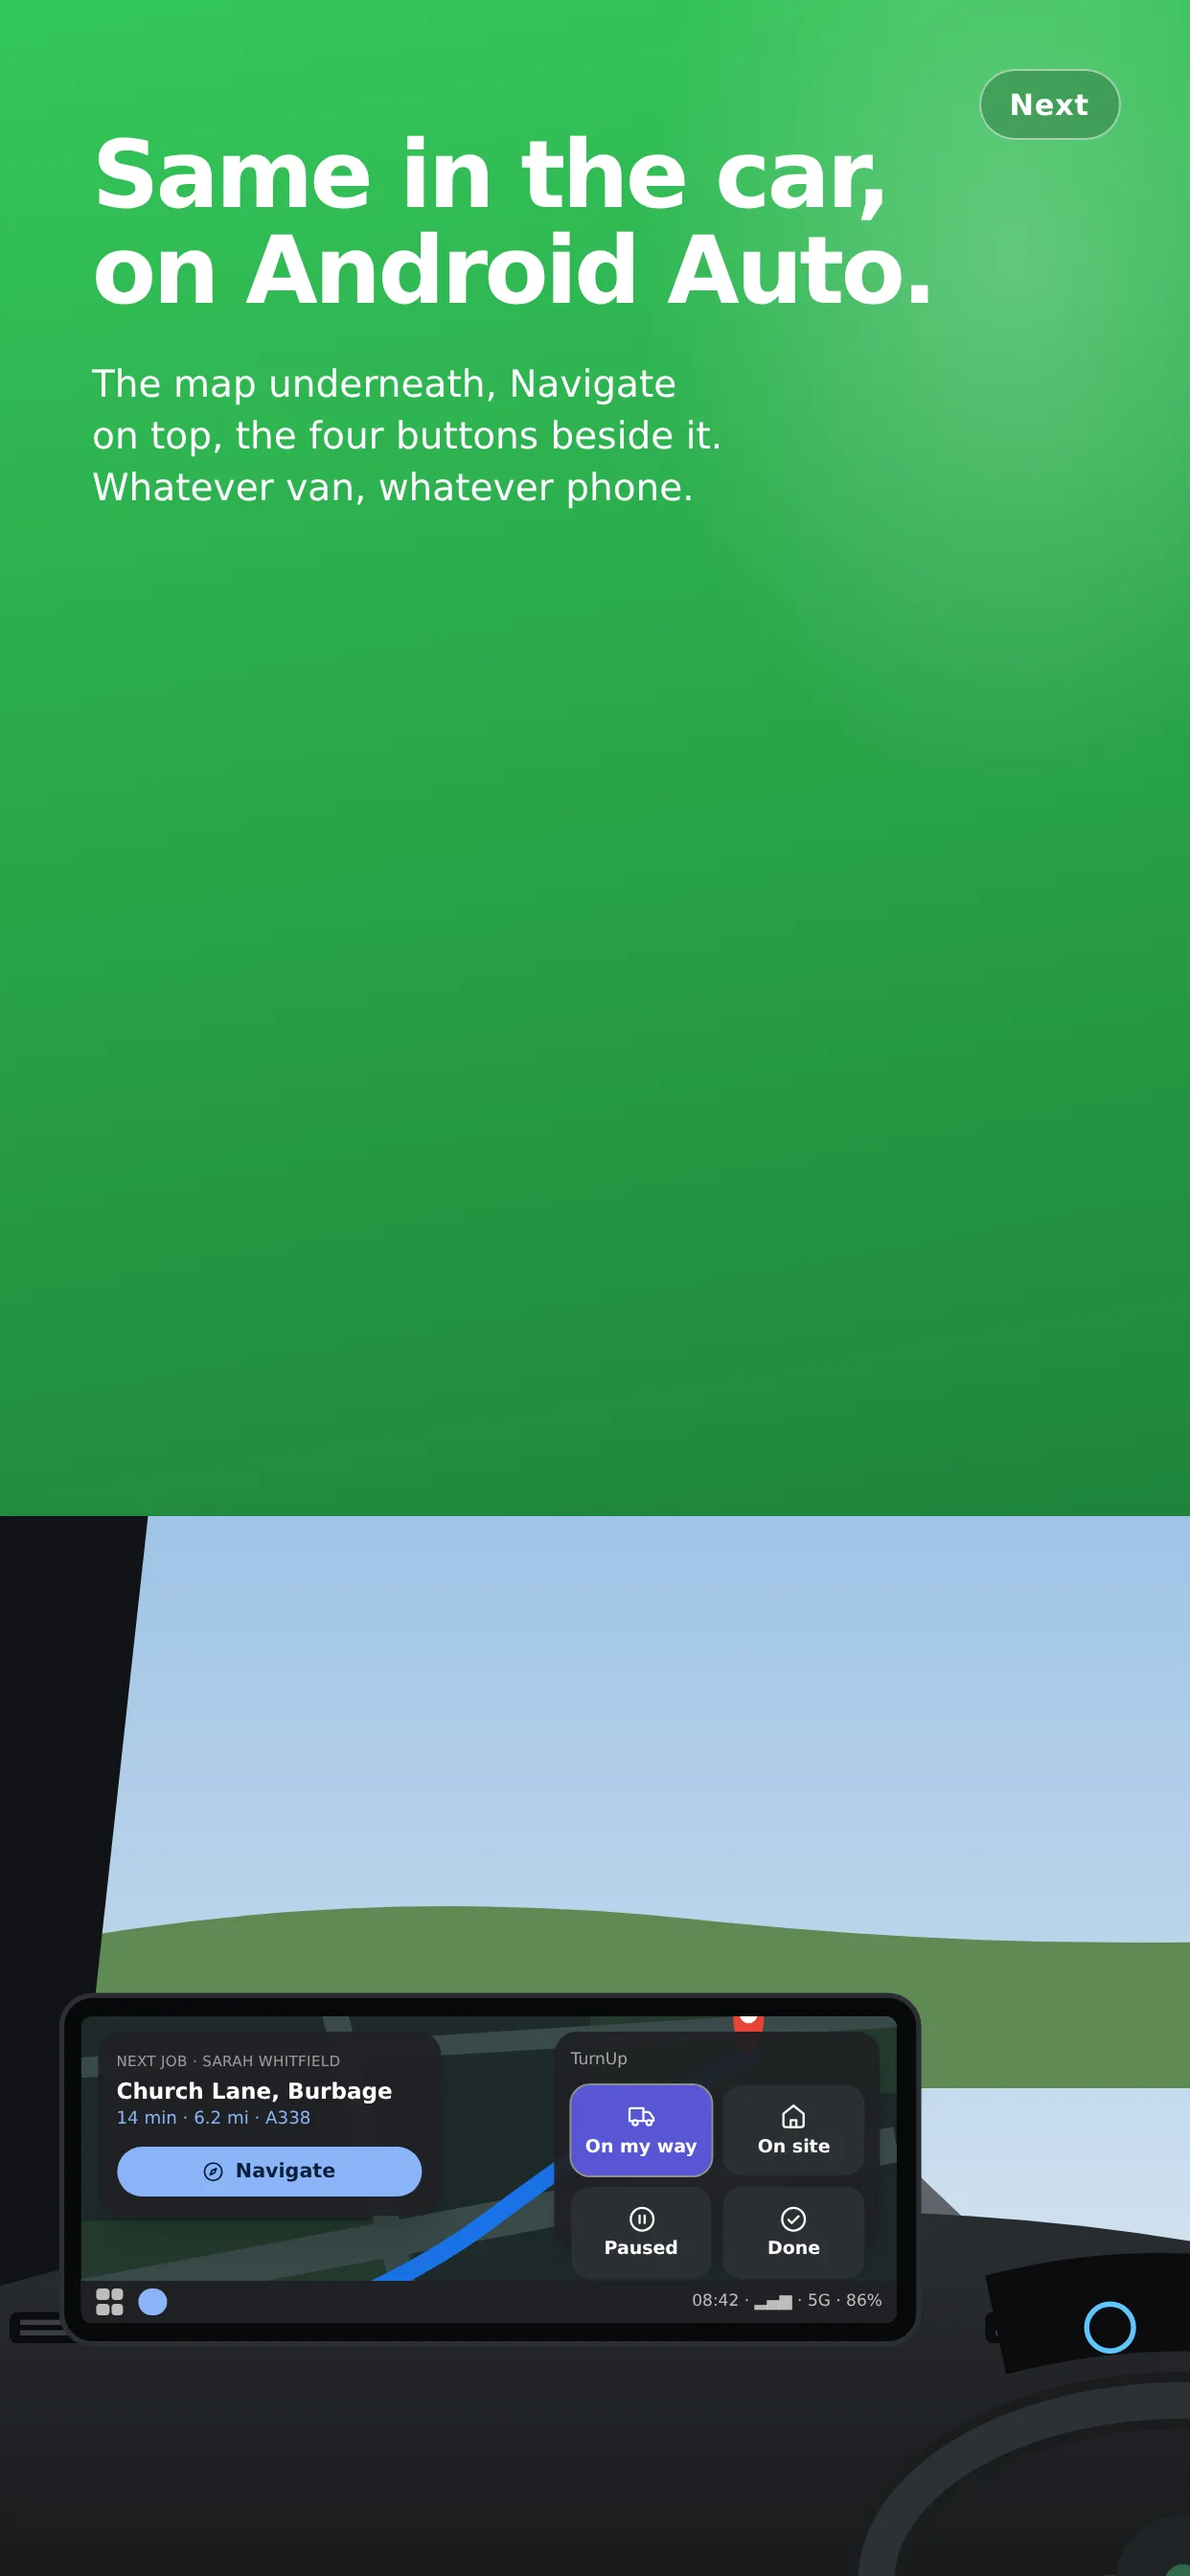
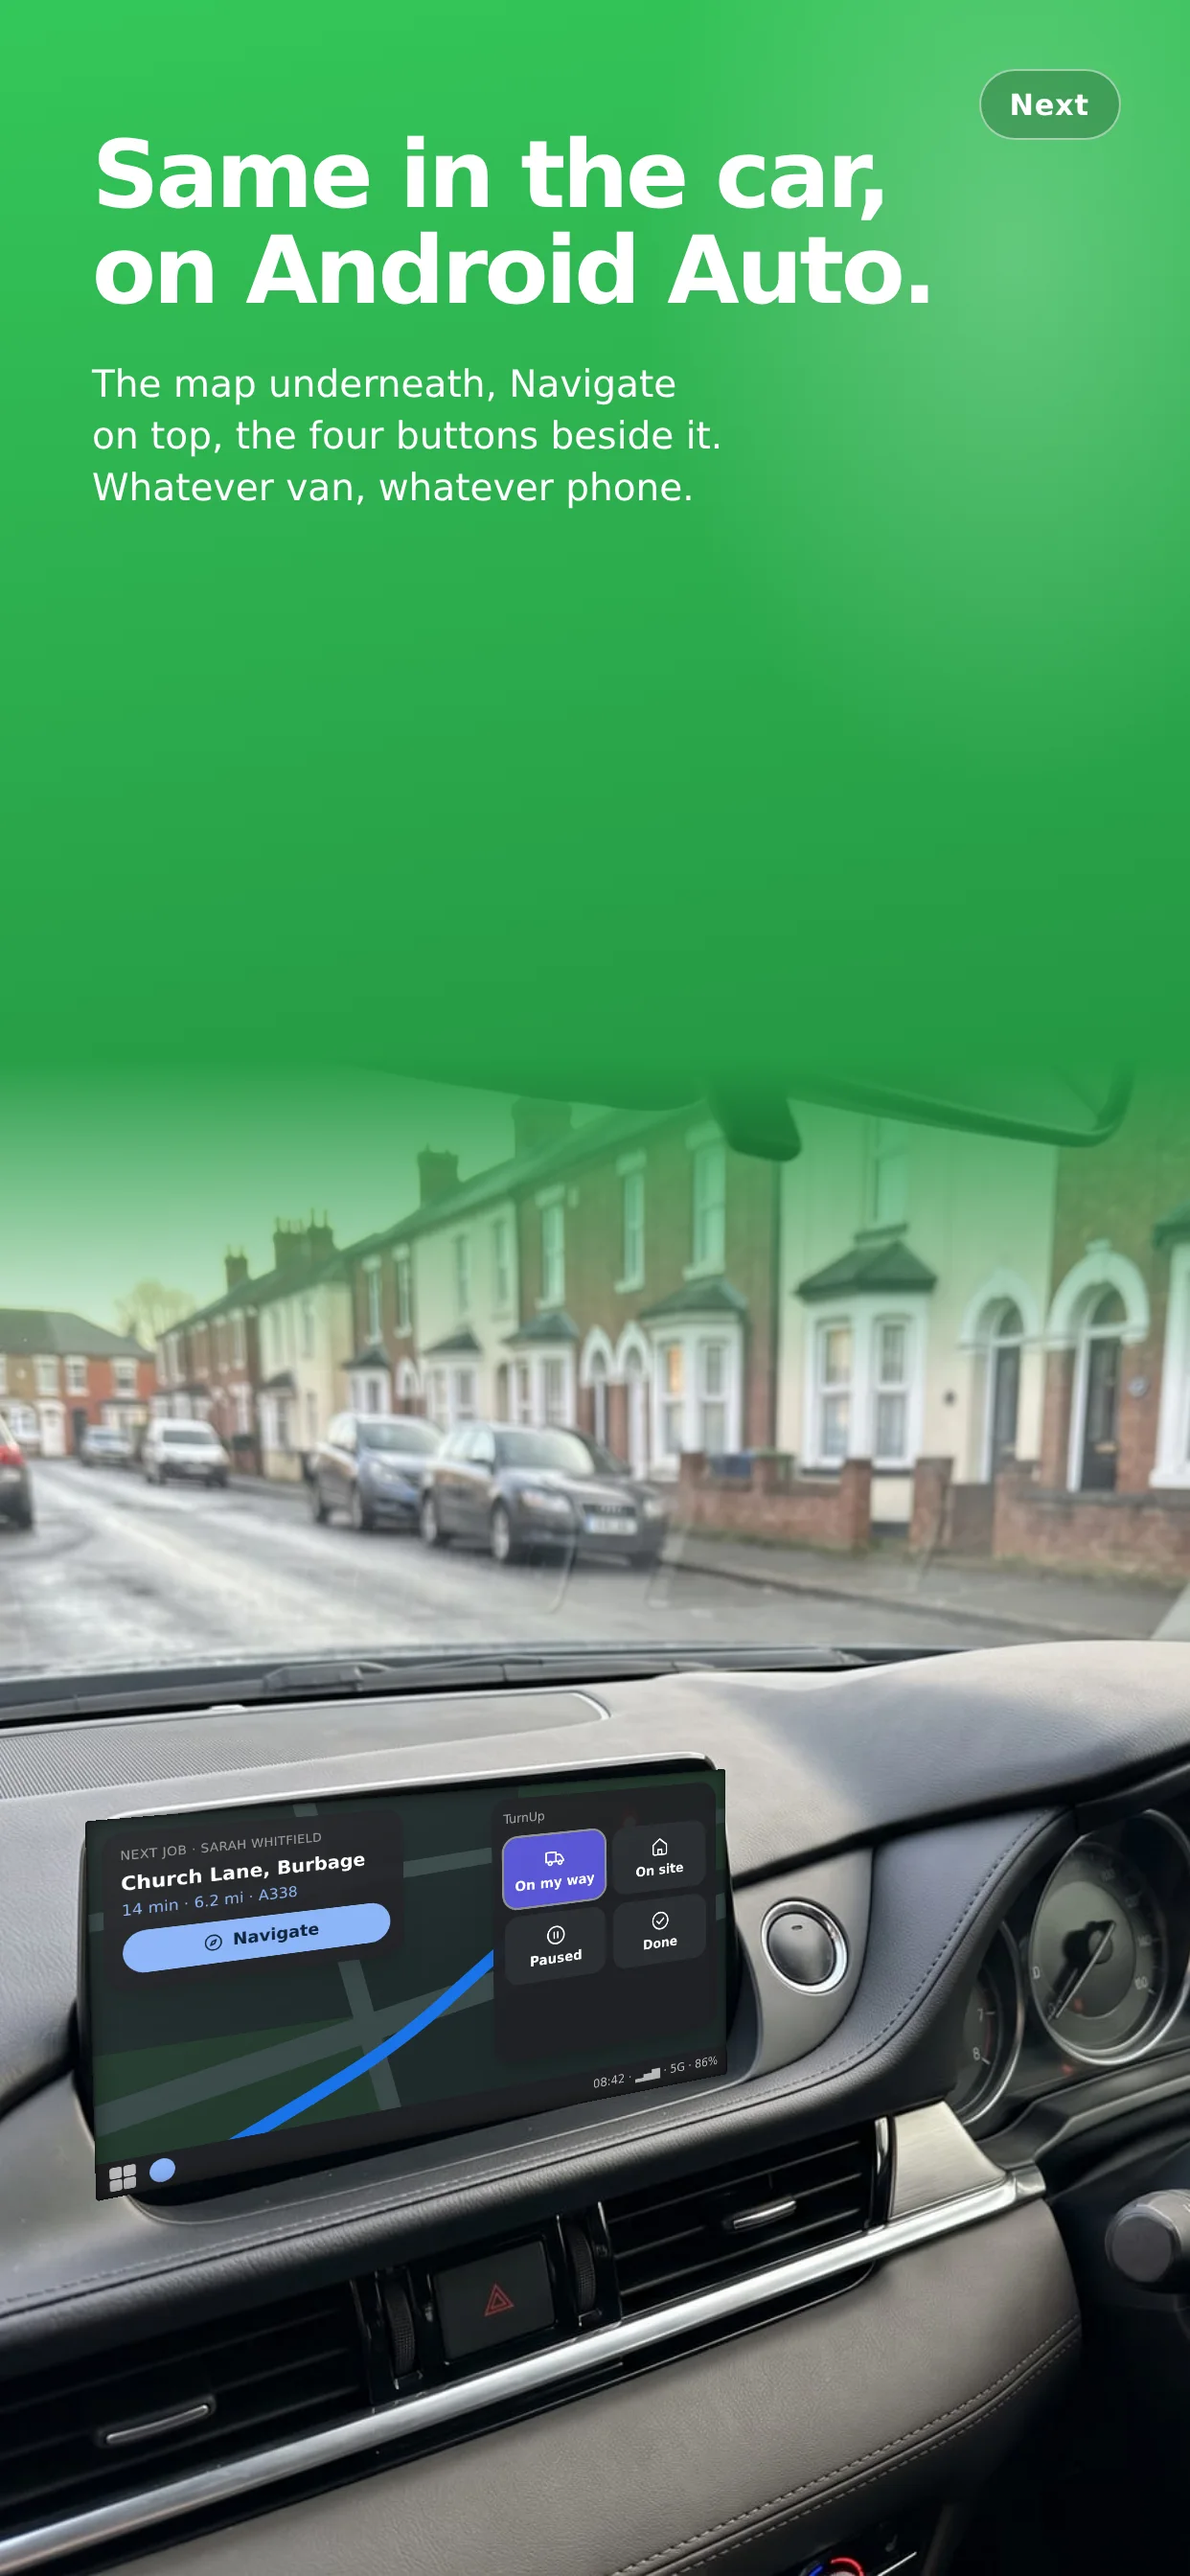
v1.15.3: the cab frames are photographs, with the app on the real screen
Will: "these images need to look real life view as if the person is
looking at their actual CarPlay." The n-carplay and n-androidauto
frames showed a drawn SVG cab. They now show a photograph taken from
the driver's seat (right-hand drive: a van on a country lane, an estate
car on a town street), with the existing CarPlay / Android Auto HTML UI
composited onto the photographed screen.

- CarDisplay.jsx: homography() solves the 8-unknown projective
  transform rectangle -> quad and returns a CSS matrix3d; CABS holds
  each photo's screen corners as fractions of the photo; CabPhoto
  renders the UI flat at a natural size and presses it onto the glass,
  with a faint reflection, inner shadow and rounded corners so it reads
  as a lit panel. Text stays HTML, so it stays crisp. The drawn
  CarDisplay is kept.
- Posters.jsx: car frames use CabPhoto, wider than the canvas so the
  screen is readable, shifted so the binnacle and wheel rim show on the
  right; the top of the photo is masked so it rises out of the poster's
  colour rather than meeting it on a line.
- public/home/cab-van.jpg, cab-car.jpg (1600 px, ~200 KB each) and the
  two re-rendered frames.
- posters.js: alt text describes the photographs.
- version 1.15.3 with a changelog entry.

Claude-Session: https://claude.ai/code/session_01KF9r2LXPvcJ1ugbhNoFDpJ

diff --git a/src/components/CarDisplay.jsx b/src/components/CarDisplay.jsx
@@ -51,11 +51,11 @@ function CarPlayUI({ w }) {
       </aside>
       <main className="flex min-w-0 flex-1 gap-[0.6em] p-[0.6em] pl-0">
         {/* navigation card */}
-        <section className="relative w-[46%] overflow-hidden rounded-[0.9em]">
+        <section className="relative w-[49%] overflow-hidden rounded-[0.9em]">
           <MapArt />
           <div className="absolute inset-x-[0.6em] top-[0.6em] rounded-[0.6em] bg-black/75 px-[0.8em] py-[0.6em] backdrop-blur">
             <p className="text-[0.62em] uppercase tracking-wide text-white/60">Next job</p>
-            <p className="truncate text-[0.95em] font-semibold">{JOB.where}</p>
+            <p className="truncate text-[0.9em] font-semibold">{JOB.where}</p>
             <p className="text-[0.75em] text-white/70">{JOB.mins} min · 6.2 mi</p>
           </div>
           <div className="absolute inset-x-[0.6em] bottom-[0.6em] flex items-center justify-center gap-[0.5em] rounded-[0.6em] bg-[#007aff] py-[0.6em] text-[0.9em] font-bold">
@@ -112,10 +112,89 @@ function AndroidAutoUI({ w }) {
   )
 }
 
+/* ------------------------------------------------------------------------ */
+/* The photographed cab.                                                     */
+
 /**
- * The cab. Right-hand drive: wheel on the right, head unit centre-left of
- * the driver, the road ahead through the glass. The screen is an HTML box
- * positioned over the SVG so the UI stays crisp text, not a picture of text.
+ * Solve the projective transform that takes the rectangle (0,0)–(w,h) onto
+ * the quadrilateral [tl, tr, br, bl] and return it as a CSS matrix3d().
+ * Eight unknowns, eight equations, Gaussian elimination. The element it is
+ * applied to needs `transform-origin: 0 0`.
+ */
+export function homography(w, h, [tl, tr, br, bl]) {
+  const src = [[0, 0], [w, 0], [w, h], [0, h]], dst = [tl, tr, br, bl]
+  const A = [], B = []
+  for (let i = 0; i < 4; i++) {
+    const [x, y] = src[i], [u, v] = dst[i]
+    A.push([x, y, 1, 0, 0, 0, -x * u, -y * u]); B.push(u)
+    A.push([0, 0, 0, x, y, 1, -x * v, -y * v]); B.push(v)
+  }
+  for (let c = 0; c < 8; c++) {
+    let p = c
+    for (let r = c + 1; r < 8; r++) if (Math.abs(A[r][c]) > Math.abs(A[p][c])) p = r
+    ;[A[c], A[p]] = [A[p], A[c]]; [B[c], B[p]] = [B[p], B[c]]
+    for (let r = 0; r < 8; r++) {
+      if (r === c) continue
+      const f = A[r][c] / A[c][c]
+      for (let k = c; k < 8; k++) A[r][k] -= f * A[c][k]
+      B[r] -= f * B[c]
+    }
+  }
+  const [a, b, c, d, e, f, g, hh] = B.map((v, i) => v / A[i][i])
+  // column-major: x' = ax + by + c, y' = dx + ey + f, w' = gx + hh·y + 1
+  return `matrix3d(${a},${d},0,${g},${b},${e},0,${hh},0,0,1,0,${c},${f},0,1)`
+}
+
+/**
+ * Two photographs from the driver's seat, right-hand drive, the head unit
+ * switched off. The four corners of the glass, measured by eye against a
+ * grid and checked with a coloured quad, as fractions of the photo so any
+ * render width works: top-left, top-right, bottom-right, bottom-left.
+ * `aspect` is the screen's own width:height, which the UI is laid out at
+ * before it is pressed onto the glass.
+ */
+export const CABS = {
+  van: { src: '/home/cab-van.jpg', w: 1600, h: 1195, aspect: 1.436,
+         quad: [[0.1445, 0.4705], [0.4945, 0.4315], [0.4935, 0.7275], [0.1465, 0.8225]] },
+  car: { src: '/home/cab-car.jpg', w: 1600, h: 1195, aspect: 1.867,
+         quad: [[0.1775, 0.5030], [0.4928, 0.4685], [0.4935, 0.6695], [0.1830, 0.7535]] },
+}
+
+/**
+ * The cab as a photograph, with the app on the real screen. The UI is laid
+ * out flat at a natural size and then mapped onto the photographed glass by
+ * the homography above, so it takes the screen's perspective while staying
+ * HTML: crisp text, not a picture of text. A faint reflection and an inner
+ * shadow make it a lit panel behind glass rather than a sticker on top.
+ * `fadeTop` masks the top of the photograph to transparent over that
+ * fraction of its height, so it rises out of whatever sits behind it.
+ */
+export function CabPhoto({ vehicle = 'van', ui = 'carplay', width = 620, fadeTop = 0, className = '' }) {
+  const cab = CABS[vehicle] || CABS.van
+  const H = width * cab.h / cab.w
+  const quad = cab.quad.map(([x, y]) => [x * width, y * H])
+  const W = 560, UH = W / cab.aspect
+  return (
+    <div className={`relative shrink-0 ${className}`} style={{ width, height: H }}>
+      {/* eslint-disable-next-line @next/next/no-img-element -- capture page; the photo is the frame */}
+      <img src={cab.src} alt="" width={cab.w} height={cab.h} draggable={false} className="absolute inset-0 h-full w-full select-none"
+           style={fadeTop ? { WebkitMaskImage: `linear-gradient(to bottom, transparent, #000 ${fadeTop * 100}%)`, maskImage: `linear-gradient(to bottom, transparent, #000 ${fadeTop * 100}%)` } : undefined} />
+      <div className="absolute left-0 top-0 overflow-hidden rounded-[3px] bg-black"
+           style={{ width: W, height: UH, transformOrigin: '0 0', transform: homography(W, UH, quad), backfaceVisibility: 'hidden' }}>
+        {ui === 'android' ? <AndroidAutoUI w={W} /> : <CarPlayUI w={W} />}
+        <div aria-hidden="true" className="pointer-events-none absolute inset-0 rounded-[3px]"
+             style={{ background: 'linear-gradient(155deg, rgba(255,255,255,.07) 0%, rgba(255,255,255,.025) 32%, rgba(255,255,255,0) 52%)',
+                      boxShadow: 'inset 0 0 16px rgba(0,0,0,.55), inset 0 0 2px rgba(0,0,0,.9)' }} />
+      </div>
+    </div>
+  )
+}
+
+/**
+ * The drawn cab (kept; the posters now use CabPhoto above). Right-hand drive:
+ * wheel on the right, head unit centre-left of the driver, the road ahead
+ * through the glass. The screen is an HTML box positioned over the SVG so
+ * the UI stays crisp text, not a picture of text.
  */
 export default function CarDisplay({ vehicle = 'van', ui = 'carplay', width = 560, className = '' }) {
   const van = vehicle === 'van'

diff --git a/src/app/preview/posters/Posters.jsx b/src/app/preview/posters/Posters.jsx
@@ -1,7 +1,7 @@
 'use client'
 import Device from '@/components/Device'
 import WalletHero from '@/components/WalletHero'
-import CarDisplay from '@/components/CarDisplay'
+import { CabPhoto } from '@/components/CarDisplay'
 import { FRAMES } from '@/lib/posters'
 import { TickIcon, PinIcon, HouseIcon, VanIcon as TruckIcon, EyeIcon as CameraIcon, StageIcon } from '@/components/icons'
 
@@ -24,6 +24,14 @@ const DEMO = {
 
 const BADGE = { ready: 'Built · awaiting Apple', next: 'Next' }
 
+/* How much of the cab photograph a poster shows. Wider than the canvas, so
+ * the screen is big enough to read, shifted right so the glass sits
+ * left-of-centre with the binnacle and the rim of the wheel on the right —
+ * the driver's own view, not a brochure's. The overflow is clipped by the
+ * wrapper below; the top fifth of the photo is masked so it rises out of the
+ * poster's colour instead of meeting it on a line. */
+const CAB_FIT = { van: { width: 1000, shift: '5.6em' }, car: { width: 1060, shift: '4.7em' } }
+
 export function Poster({ p, scale = 1 }) {
   const badge = BADGE[p.state]
   return (
@@ -43,7 +51,9 @@ export function Poster({ p, scale = 1 }) {
       </div>
       <div className={`absolute inset-x-0 flex justify-center ${p.wallet ? 'inset-y-0 items-start pt-[17em]' : p.car ? 'inset-y-0 items-end overflow-hidden' : 'bottom-0'}`}>
         {p.car ? (
-          <CarDisplay vehicle={p.car.vehicle} ui={p.car.ui} width={760 * scale} className="-mb-[2.5em] translate-x-[3.2em]" />
+          <div className="relative shrink-0" style={{ transform: `translateX(${CAB_FIT[p.car.vehicle].shift})` }}>
+            <CabPhoto vehicle={p.car.vehicle} ui={p.car.ui} width={CAB_FIT[p.car.vehicle].width * scale} fadeTop={0.22} />
+          </div>
         ) : p.wallet ? (
           <div className="w-[36em] scale-[1.18]"><WalletHero tracker={DEMO} tradeName="Sam Hale Plumbing" className="!rounded-[2.4em] !bg-transparent" /></div>
         ) : (

diff --git a/src/lib/posters.js b/src/lib/posters.js
@@ -103,10 +103,10 @@ export const FRAMES = [
     { mock: 'photos', alt: 'Job-done photos and a review request' }),
   f('n-carplay', 'next', 'next', NAVY,
     'From the dash,\nnot the phone.', 'Navigate to the address, then On my way, On site, Paused, Done — on CarPlay, in the van. Or say it to Siri.',
-    { car: { vehicle: 'van', ui: 'carplay' }, alt: 'A van dashboard with CarPlay on the head unit: a map with Navigate, and the four stage buttons' }),
+    { car: { vehicle: 'van', ui: 'carplay' }, alt: 'Seen from the driver\'s seat of a van: CarPlay on the head unit with Navigate and the four stage buttons, a country lane through the windscreen' }),
   f('n-androidauto', 'next', 'next', GREEN,
     'Same in the car,\non Android Auto.', 'The map underneath, Navigate on top, the four buttons beside it. Whatever van, whatever phone.',
-    { car: { vehicle: 'car', ui: 'android' }, alt: 'A car dashboard with Android Auto: the map, Navigate, and the four stage buttons' }),
+    { car: { vehicle: 'car', ui: 'android' }, alt: 'Seen from the driver\'s seat of a car: Android Auto on the dash screen with the map, Navigate and the four stage buttons, a town street ahead' }),
   f('n-record', 'next', 'next', NAVY,
     'A record of\nyour home.', 'Everything done to the house, by whom, when, with the certificate and the photos. Kept with the address, not lost in an inbox.',
     { mock: 'record', alt: 'A house record: the work done, by whom, when, with certificates' }),

diff --git a/src/lib/version.js b/src/lib/version.js
@@ -16,7 +16,7 @@
  *
  * Adding one is welcome. Inventing one at runtime is not.
  */
-export const VERSION = '1.15.2'
+export const VERSION = '1.15.3'
 export const BUILD_DATE = '2026-10-09'
 
 export const THEMES = [
@@ -48,6 +48,9 @@ export const theme = () => THEMES[THEME_INDEX % THEMES.length]
  * by the person who asked for it, not by a release manager.
  */
 export const CHANGELOG = [
+  { version: '1.15.3', date: '2026-10-09', notes: [
+    'The CarPlay and Android Auto frames are photographs from the driver\u2019s seat now, with the app on the real screen \u2014 the UI pressed onto the glass in its perspective, still crisp text',
+  ] },
   { version: '1.15.2', date: '2026-10-09', notes: [
     'CarPlay in the van and Android Auto in the car, drawn from the driver\u2019s seat: the map, Navigate to the address, the four stage buttons',
     'The TurnUp mark on the dashboard goes to the homepage, and the homepage\u2019s Sign in comes back',
